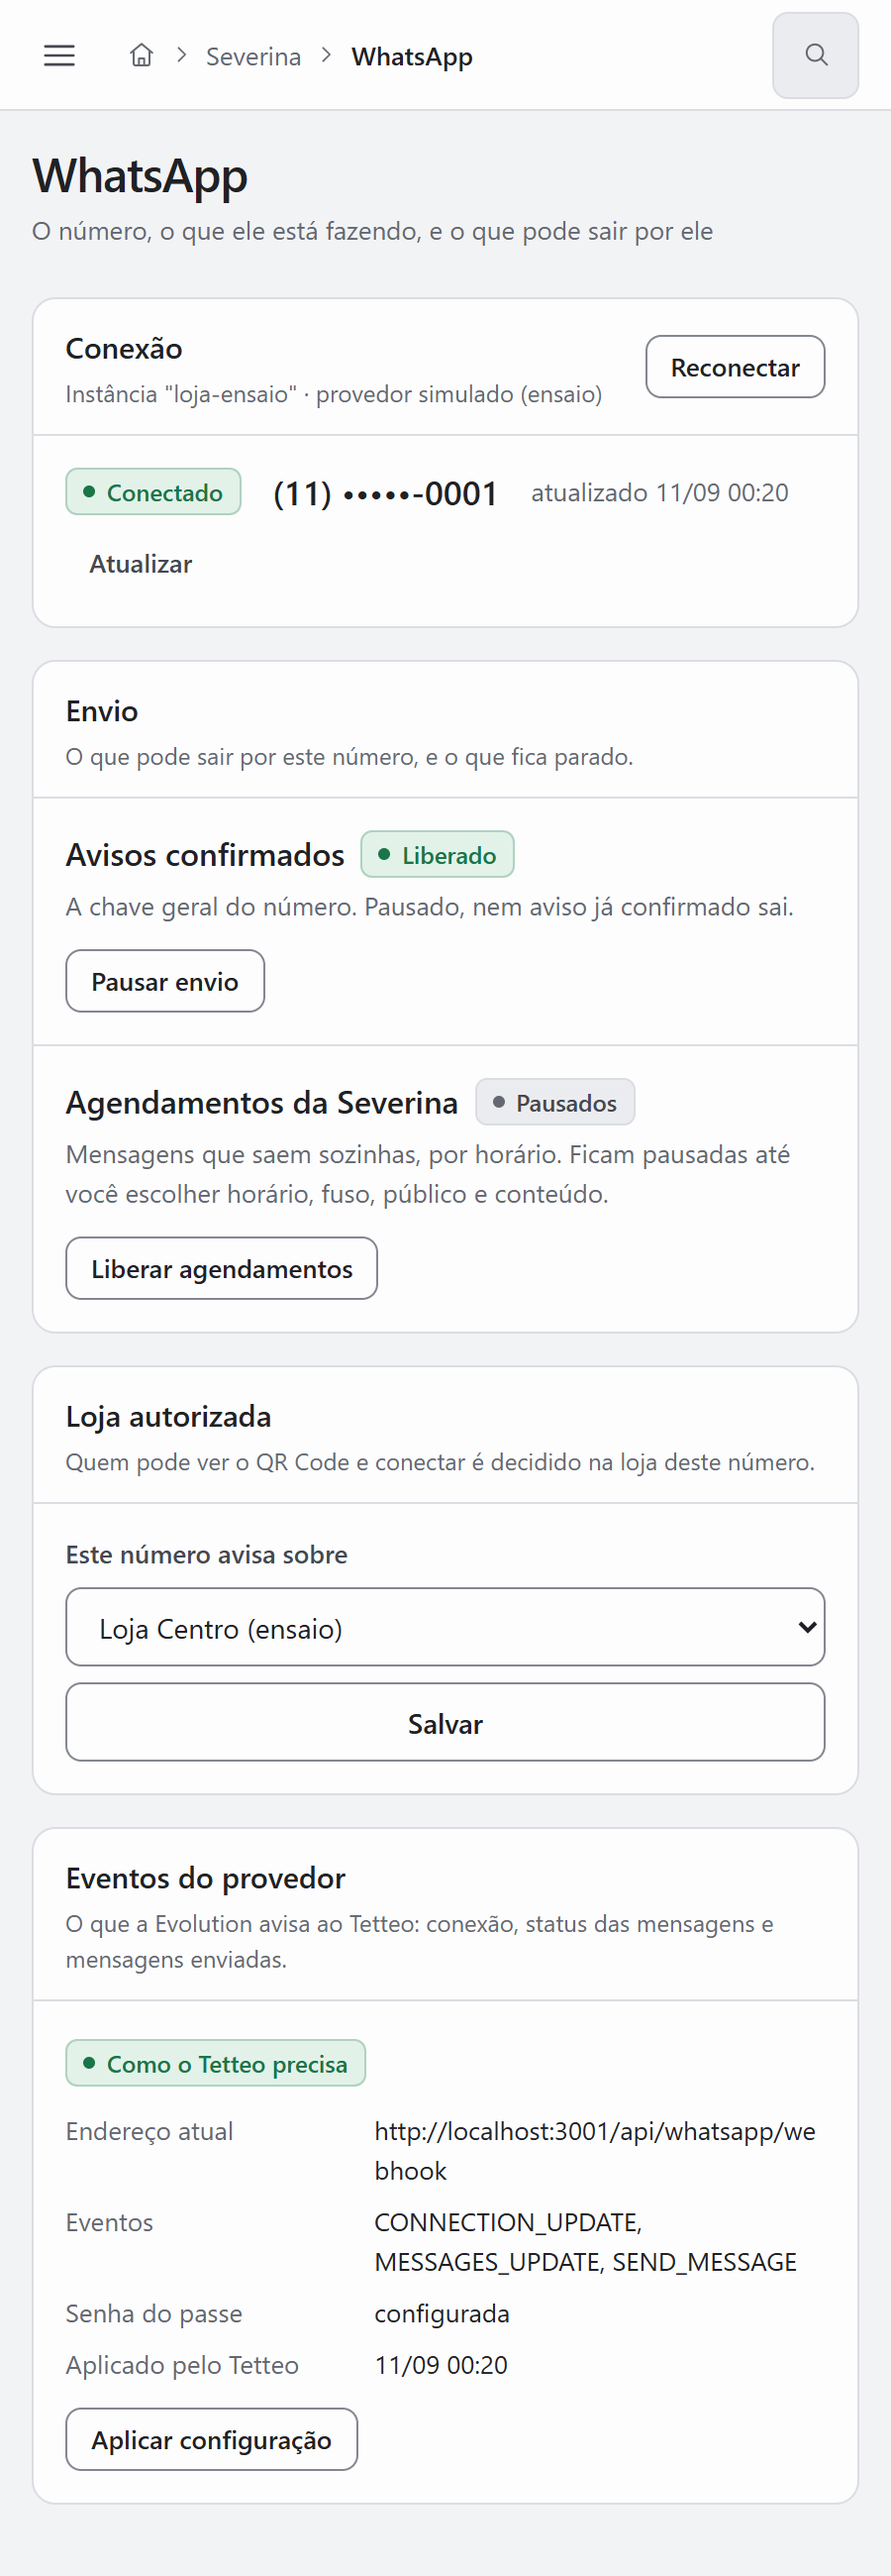
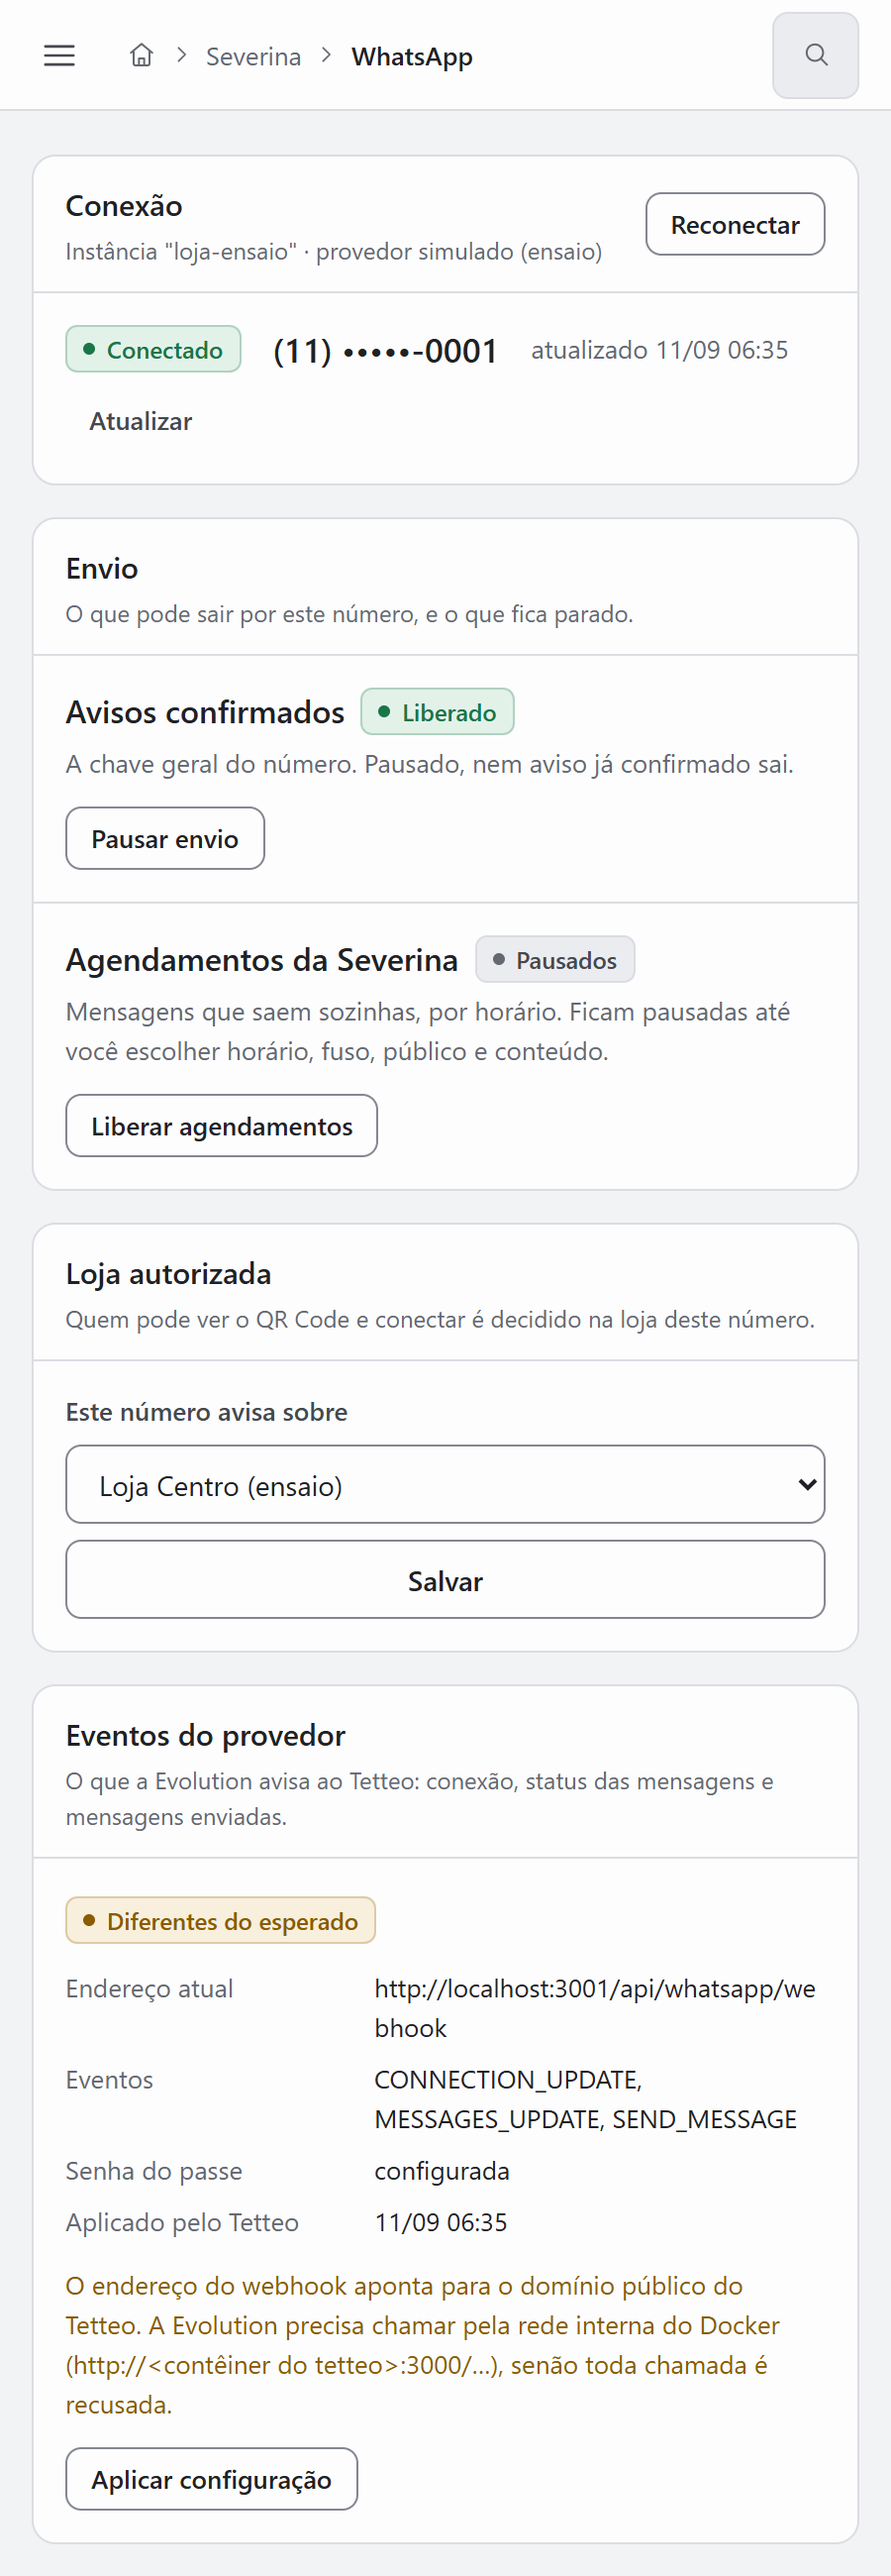
WhatsApp: prints refeitos com o código revisado, e o manual conta os 20 cenários

diff --git a/docs/operacao/whatsapp/README.md b/docs/operacao/whatsapp/README.md
@@ -14,7 +14,7 @@ sai sozinho.
 
 | Degrau          | O que é                                                                                 | Estado em 11/09/2026 |
 | --------------- | --------------------------------------------------------------------------------------- | -------------------- |
-| **Simulação**   | Testes automáticos com o provedor simulado, sem rede (`npm test` + os 12 cenários)      | feito, 14/14         |
+| **Simulação**   | Testes automáticos com o provedor simulado, sem rede (`npm test` + os 12 cenários)      | feito, 20/20         |
 | **Teste local** | O Tetteo rodando na máquina com banco descartável e provedor simulado; prints das telas | feito                |
 | **Sandbox**     | **Não existe para Baileys.** Está declarado, não fingido                                | —                    |
 | **Uso real**    | Número real, **um** destinatário autorizado pelo dono, uma mensagem                     | aguarda autorização  |
@@ -89,6 +89,10 @@ curl -s -o /dev/null -w "%{http_code}" -X POST https://app.vitalianopizzaria.com
 Esperado: `403` (chegou pelo proxy público). Enquanto isso, os eventos da
 Evolution aparecem na tela Eventos — é a prova de que a chamada interna passa.
 
+Se `WHATSAPP_WEBHOOK_URL` apontar para o domínio público por engano, a tela
+WhatsApp avisa em "Eventos do provedor" — nesse caso toda chamada da Evolution
+seria recusada, e a Evolution não repete um 403.
+
 ## Como testar na máquina (ensaio, sem número real)
 
 O ensaio roda contra um banco **local e descartável**, com o provedor simulado.
@@ -117,7 +121,11 @@ inválida não vaza · evento repetido não duplica · mensagem própria não in
 ciclo · usuário de outra loja não vê QR · uma confirmação, uma mensagem · tempo
 esgotado vira pendência · desconexão muda o estado · reconexão não apaga o
 histórico · webhook malformado é rejeitado · envio pausado não dispara ·
-restauração sem segredos.
+restauração sem segredos. Mais seis, vindos da revisão do código: a prova
+(`send.message`) que chega antes da resposta do envio; o "entregue" que chega
+antes do id; o ritmo de 4 s entre duas pegadas; as tentativas em 1, 4 e 9
+minutos antes de desistir; o mesmo evento processado por dois lados; a chave
+geral só na loja do número.
 
 ## Como atualizar
 
